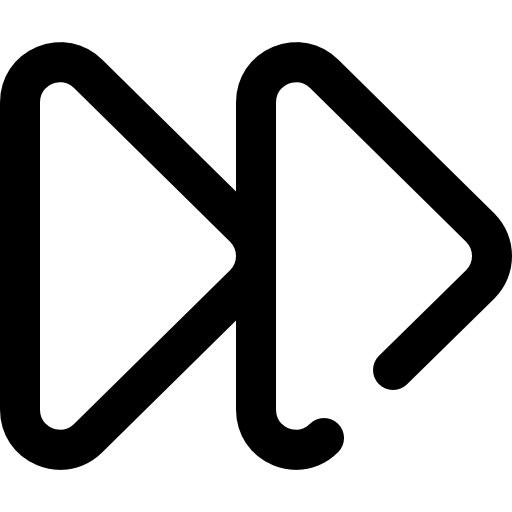
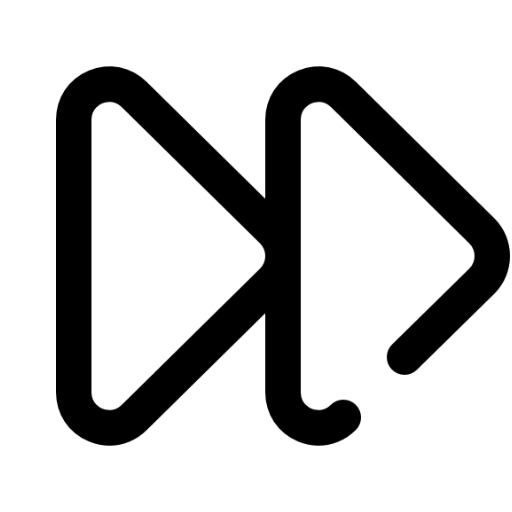
skip margin

diff --git a/Front-end/index.html b/Front-end/index.html
@@ -156,7 +156,7 @@
             <div class="box" id="info">
                 <div class="givenWord"></div>
                 <form onsubmit="endTurn()" action="javascript:void(0);">
-                    <input class="btn2" type="image" alt="End turn" src="https://raw.githubusercontent.com/frederikja163/CodeGames/gamedev/Front-end/assets/miscIcons/skip.png">
+                    <input class="btn2 icon" type="image" alt="End turn" src="https://raw.githubusercontent.com/frederikja163/CodeGames/gamedev/Front-end/assets/miscIcons/skip.png">
                 </form>
             </div>
             <!-- Board -->
